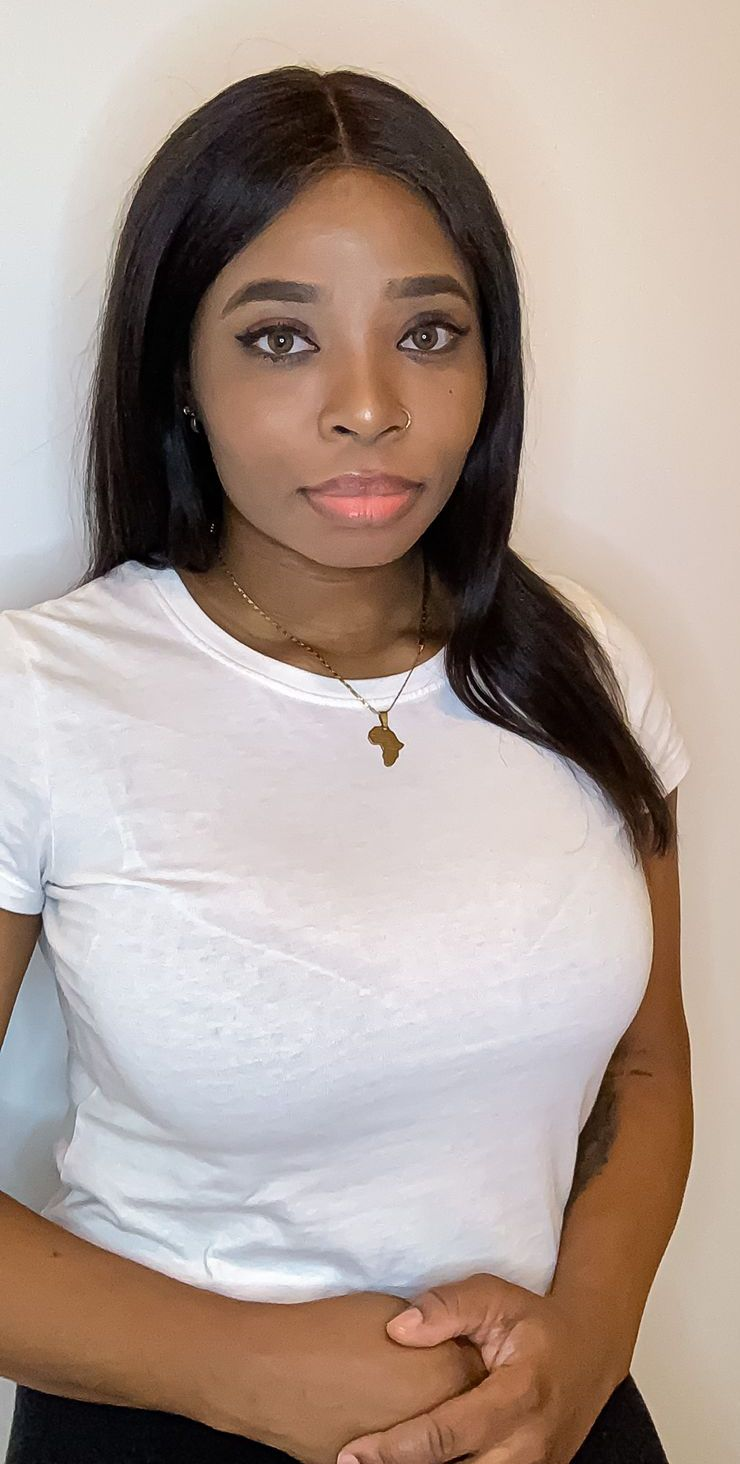
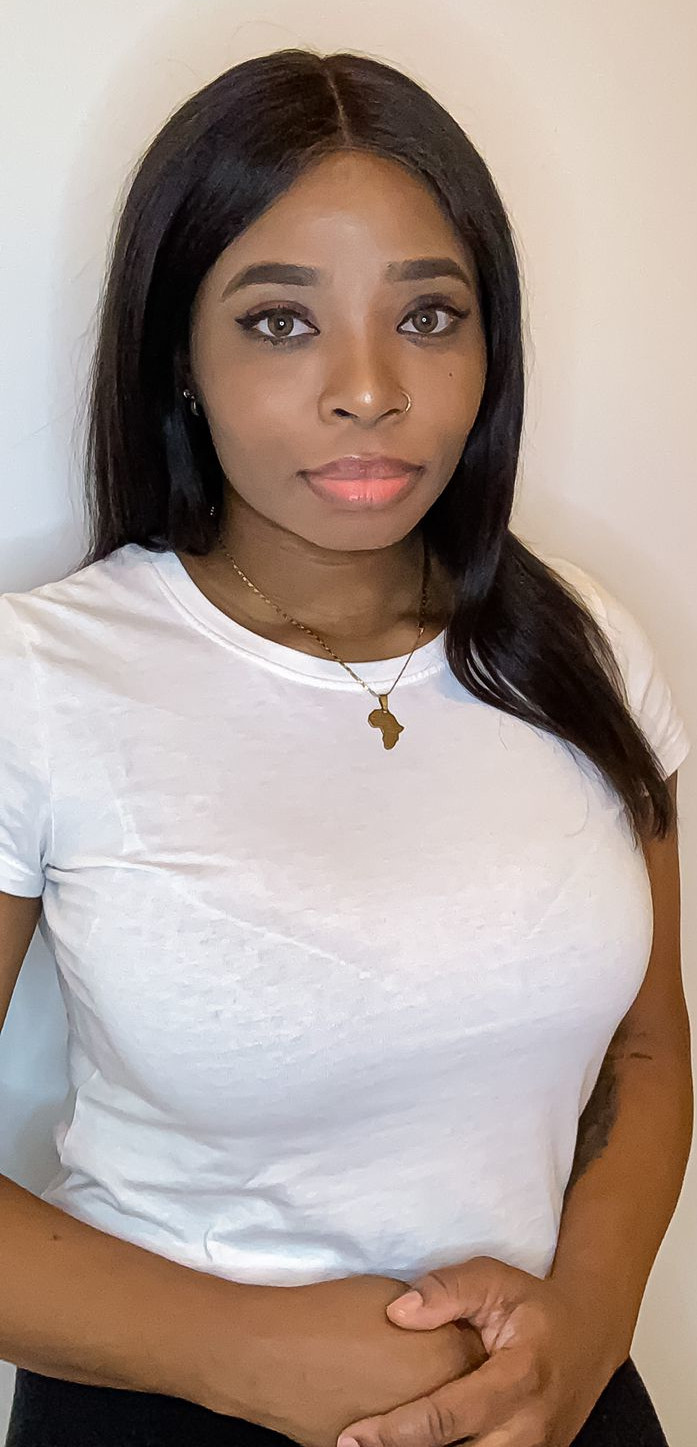
Photo changes, nabee added

diff --git a/_staff_members/dila.md b/_staff_members/dila.md
@@ -2,5 +2,5 @@
 name: Dila
 nationality: Russia
 languages: Russian, English, Arabic, Turkish, Persian
-thumbnail: dila_p2_m.jpg
+thumbnail: dila_p3_m.jpg
 ---

diff --git a/_staff_members/nabee.md b/_staff_members/nabee.md
@@ -1,6 +1,6 @@
 ---
-name: Haney
+name: Nabee
 nationality: Thailand
 languages: English, Thai
-thumbnail: haney_p6_m.jpg
+thumbnail: nabee_p0_m.jpg
 ---
